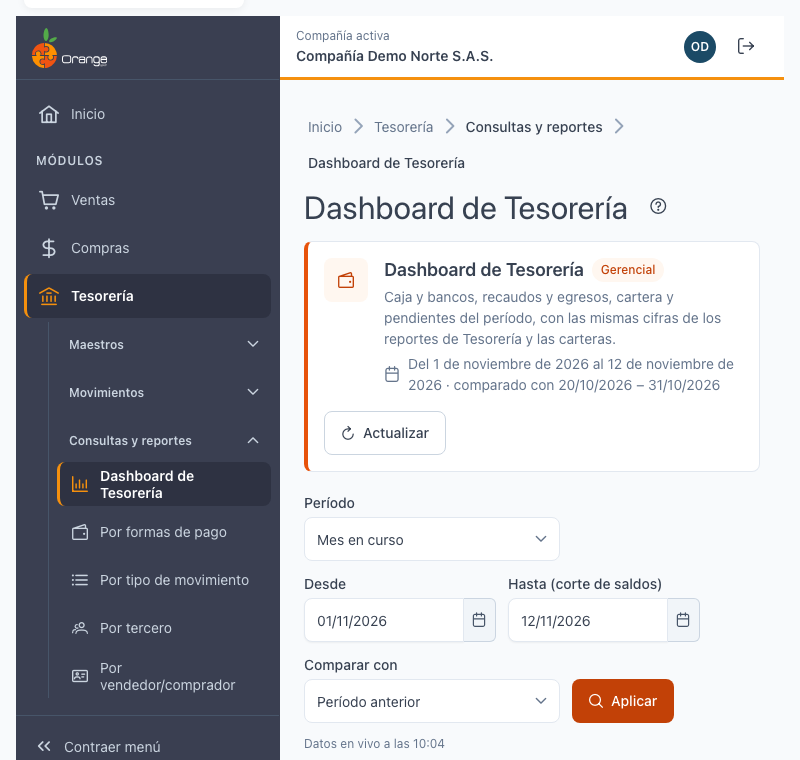
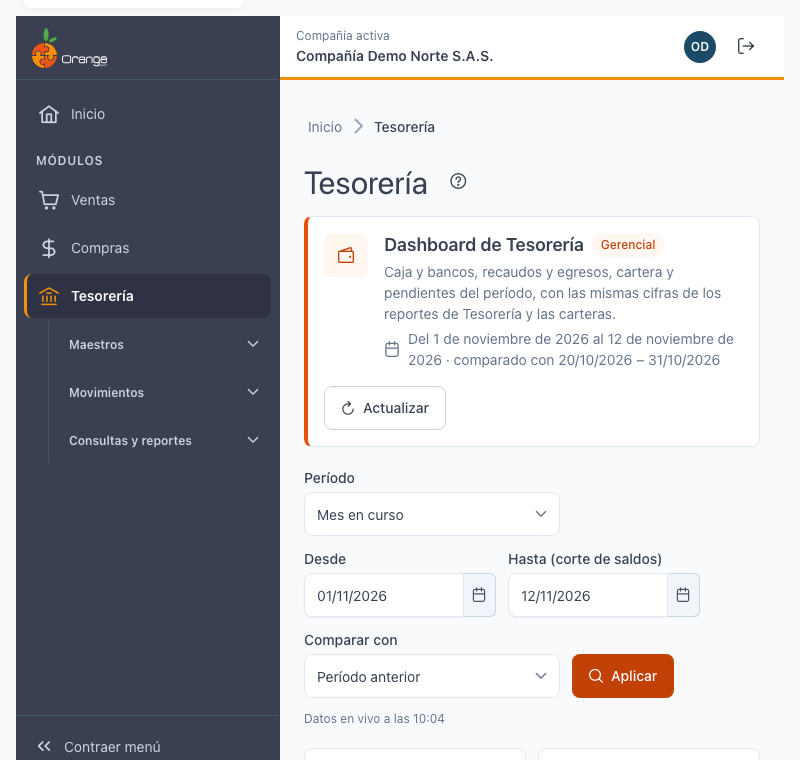
docs(tesoreria): recapturar imágenes del resumen del módulo
El resumen de Tesorería es ahora la pantalla de inicio del módulo, sin opción propia en el menú. Se recapturan las imágenes td-* con las migas Inicio > Tesorería y el menú sin el ítem de dashboard, y se incorpora la captura del panel de ayuda (td-18) al manual.

diff --git a/v2026/tesoreria/dashboard.md b/v2026/tesoreria/dashboard.md
@@ -93,6 +93,10 @@ En los rankings, cada fila solo se puede abrir si su perfil tiene **Consultar** 
 | **Aplicar** | Aplica los cambios de período y de comparación. Mientras no lo pulse, el tablero no cambia. |
 | Bloques | Saldos, comparativo, tendencia, rankings, cartera, notas bancarias y pendientes. Cada uno se explica en su sección. |
 
+Al pulsar **?** se abre el panel de ayuda junto a la pantalla:
+
+![Panel de ayuda abierto desde el botón de ayuda](recursos/img/td-18-ayuda.png)
+
 ---
 
 ## 📅 Período y comparativo
